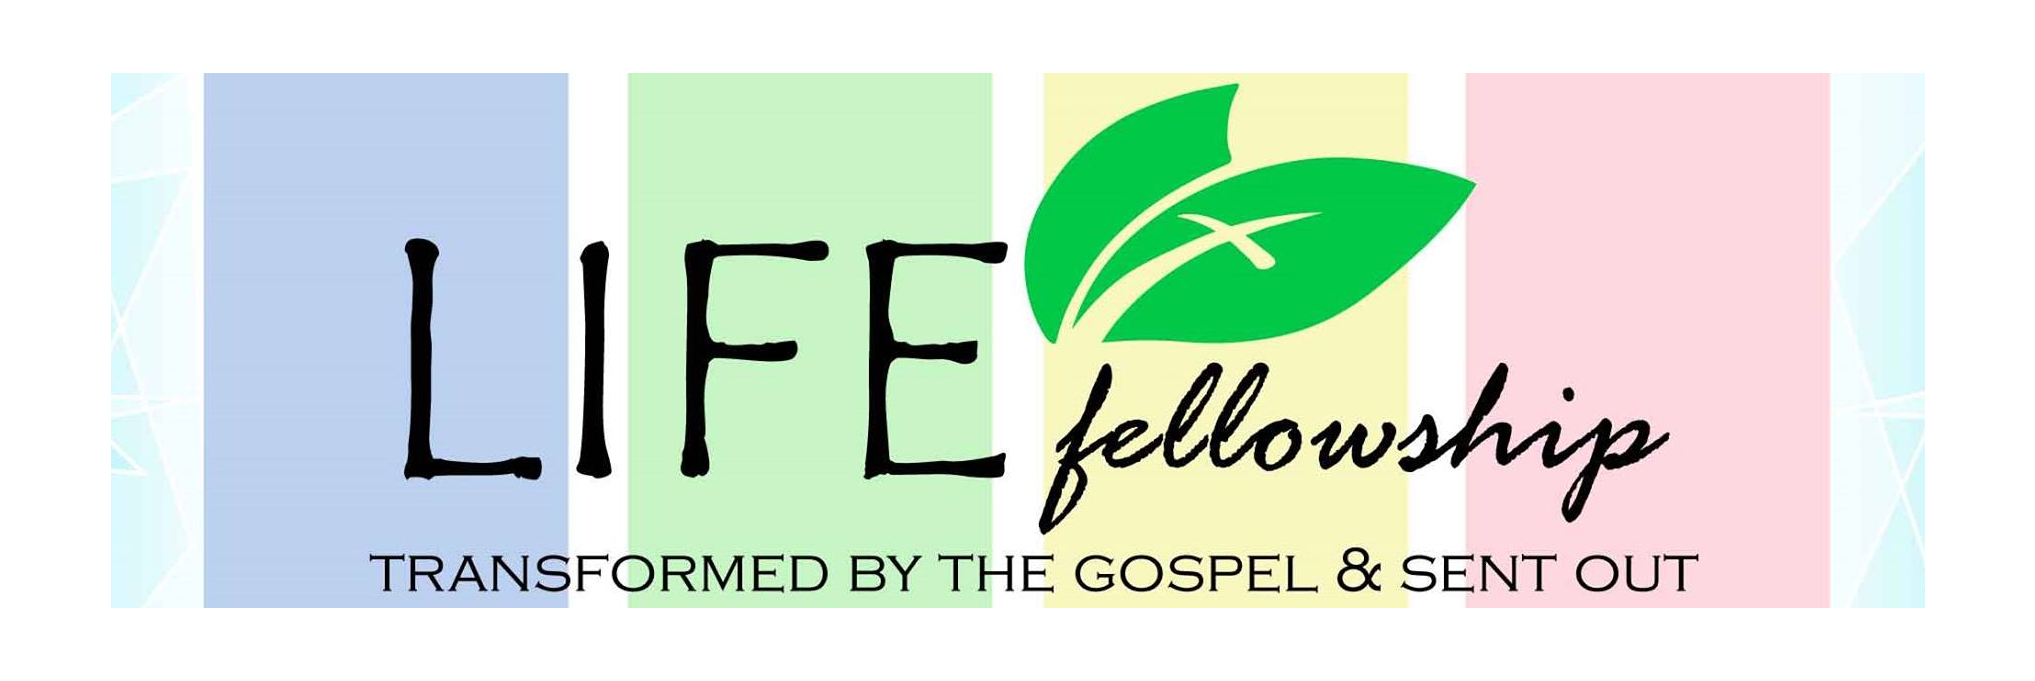
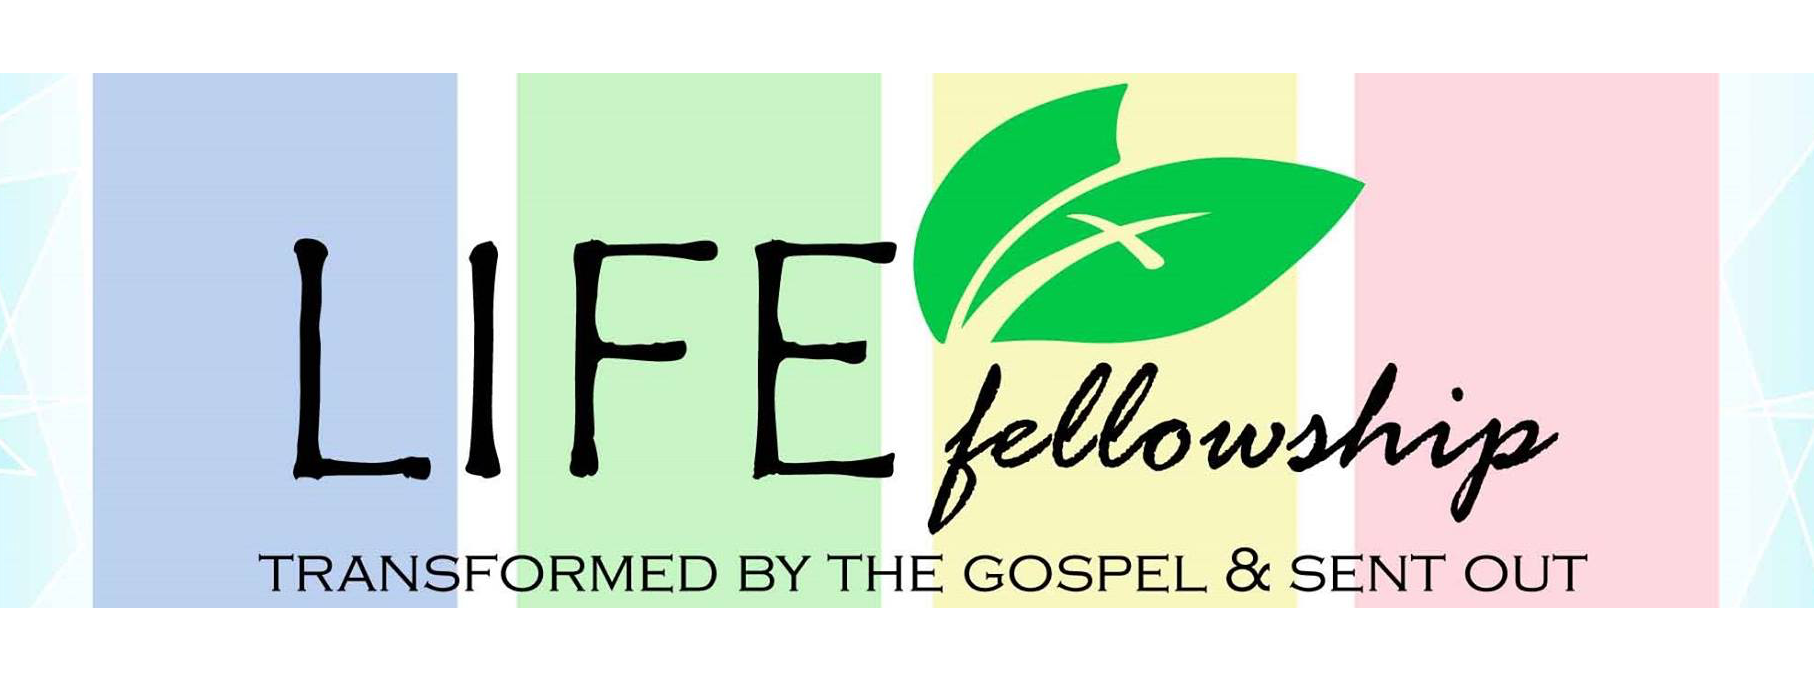
fixed responsiveness

Changed region(s): [[0.0, 0.0925, 1.0, 0.8943], [0.4939, 0.2467, 0.5248, 0.3084]]

diff --git a/style.css b/style.css
@@ -25,6 +25,12 @@ h1 {
 
 @media screen and (min-width: 768px) {
   h1 {
+    font-size: 6vw;
+  }
+}
+
+@media screen and (min-width: 992px) {
+  h1 {
     font-size: 4vw;
   }
 }
@@ -40,6 +46,12 @@ h2 {
 }
 
 @media screen and (min-width: 768px) {
+  h2 {
+    font-size: 4vw;
+  }
+}
+
+@media screen and (min-width: 992px) {
   h2 {
     font-size: 2.5vw;
   }
